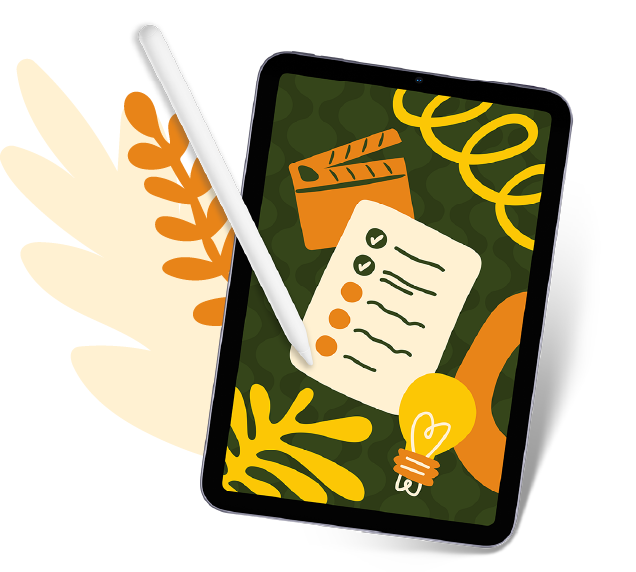
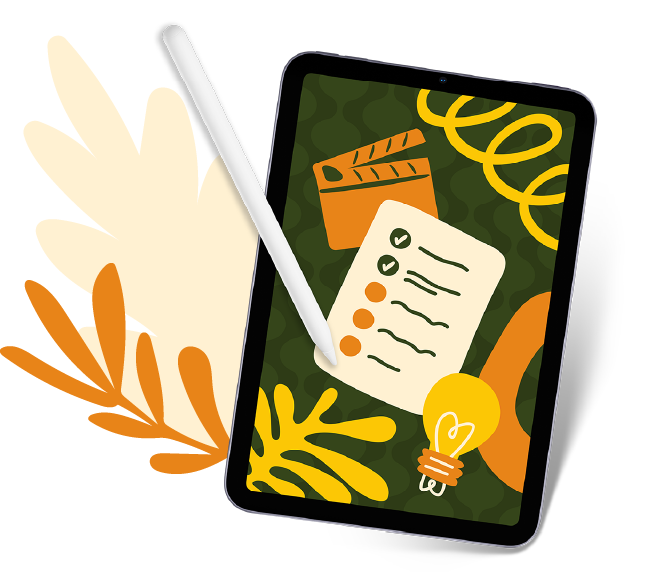
feat: update footer and home page styles

diff --git a/src/pages/Services.tsx b/src/pages/Services.tsx
@@ -14,6 +14,16 @@ import { Button } from "../components/Button";
 import { Container } from "../components/Container";
 
 export default function Services() {
+	const bgStyle = (image: string) => ({
+		backgroundImage: `url(${image})`,
+		backgroundRepeat: "no-repeat",
+		backgroundSize: "cover",
+		backgroundPosition: "center",
+	});
+	const cardStyle = {
+		WebkitMask: `url("${card2}") center / 100% 100% no-repeat`,
+		mask: `url("${card2}") center / 100% 100% no-repeat`,
+	};
 	return (
 		<main>
 			<AnimatedSection className="bg-green">
@@ -24,7 +34,7 @@ export default function Services() {
 							NOSSOS <strong>SERVIÇOS</strong>
 						</h1>
 					</div>
-					<div className="flex flex-col max-w-78 sm:max-w-md">
+					<div className="flex flex-col max-w-70 sm:max-w-md">
 						<p className="text-cream text-center sm:text-left">
 							Atuamos em diferentes momentos da produção, adaptando estratégia,
 							escopo e entregas conforme as necessidades de cada projeto.
@@ -32,17 +42,9 @@ export default function Services() {
 					</div>
 				</Container>
 			</AnimatedSection>
-			<AnimatedSection
-				className="bg-orange"
-				style={{
-					backgroundImage: `url(${bg4})`,
-					backgroundRepeat: "no-repeat",
-					backgroundSize: "cover",
-					backgroundPosition: "center",
-				}}
-			>
+			<AnimatedSection className="bg-orange" style={bgStyle(bg4)}>
 				<Container className="flex flex-col sm:flex-row justify-between py-16">
-					<div className="flex flex-col gap-6 justify-center text-cream max-w-lg">
+					<div className="flex flex-col gap-6 justify-center text-cream max-w-lg order-2 sm:order-1">
 						<h2 className="font-bold">ESTRATÉGIA & POSICIONAMENTO</h2>
 						<p>
 							Definimos o posicionamento do seu projeto a partir de sua
@@ -51,10 +53,7 @@ export default function Services() {
 						<AnimatedItems>
 							<ul
 								className="space-y-2 p-10 bg-cream text-green font-medium"
-								style={{
-									WebkitMask: `url("${card2}") center / 100% 100% no-repeat`,
-									mask: `url("${card2}") center / 100% 100% no-repeat`,
-								}}
+								style={cardStyle}
 							>
 								<li> ✽ Diagnóstico de perfil da obra e público-alvo</li>
 								<li> ✽ Definição de posicionamento e marca</li>
@@ -66,19 +65,11 @@ export default function Services() {
 					<img
 						src={notebook}
 						alt="Notebook com apresentação da Butiá"
-						className="h-auto w-xl mt-10 sm:mt-0"
+						className="h-auto w-xl mb-10 sm:mb-0 order-1 sm:order-2"
 					/>
 				</Container>
 			</AnimatedSection>
-			<AnimatedSection
-				className="bg-green"
-				style={{
-					backgroundImage: `url(${bg2})`,
-					backgroundRepeat: "no-repeat",
-					backgroundSize: "cover",
-					backgroundPosition: "center",
-				}}
-			>
+			<AnimatedSection className="bg-green" style={bgStyle(bg2)}>
 				<Container className="flex flex-col sm:flex-row justify-between py-16">
 					<img
 						src={cartaz}
@@ -94,10 +85,7 @@ export default function Services() {
 						<AnimatedItems>
 							<ul
 								className="space-y-2 p-10 bg-cream text-green font-medium"
-								style={{
-									WebkitMask: `url("${card2}") center / 100% 100% no-repeat`,
-									mask: `url("${card2}") center / 100% 100% no-repeat`,
-								}}
+								style={cardStyle}
 							>
 								<li>
 									✽ Desenvolvimento de cartazes, pôsteres, identidade visual e
@@ -114,17 +102,9 @@ export default function Services() {
 					</div>
 				</Container>
 			</AnimatedSection>
-			<AnimatedSection
-				className="bg-yellow"
-				style={{
-					backgroundImage: `url(${bg3})`,
-					backgroundRepeat: "no-repeat",
-					backgroundSize: "cover",
-					backgroundPosition: "center",
-				}}
-			>
+			<AnimatedSection className="bg-yellow" style={bgStyle(bg3)}>
 				<Container className="flex flex-col sm:flex-row justify-between py-16">
-					<div className="flex flex-col gap-6 justify-center text-green max-w-lg">
+					<div className="flex flex-col gap-6 justify-center text-green max-w-lg order-2 sm:order-1">
 						<h2 className="font-bold">IMPRENSA</h2>
 						<p>
 							Ampliamos a presença da sua obra articulando imprensa, crítica e
@@ -133,10 +113,7 @@ export default function Services() {
 						<AnimatedItems>
 							<ul
 								className="space-y-2 p-10 bg-cream text-green font-medium"
-								style={{
-									WebkitMask: `url("${card2}") center / 100% 100% no-repeat`,
-									mask: `url("${card2}") center / 100% 100% no-repeat`,
-								}}
+								style={cardStyle}
 							>
 								<li> ✽ Redação de releases e notas oficiais</li>
 								<li> ✽ Construção e gestão de mailing segmentado</li>
@@ -147,19 +124,11 @@ export default function Services() {
 					<img
 						src={news}
 						alt="Celular com texto da release de imprensa"
-						className="h-auto w-xl mt-10 sm:mt-0"
+						className="h-auto w-xl mb-10 sm:mb-0 order-1 sm:order-2"
 					/>
 				</Container>
 			</AnimatedSection>
-			<AnimatedSection
-				className="bg-red"
-				style={{
-					backgroundImage: `url(${bg5})`,
-					backgroundRepeat: "no-repeat",
-					backgroundSize: "cover",
-					backgroundPosition: "center",
-				}}
-			>
+			<AnimatedSection className="bg-red" style={bgStyle(bg5)}>
 				<Container className="flex flex-col sm:flex-row justify-between py-16">
 					<img src={ipad} alt="Logo" className="h-auto w-lg mb-10 sm:mb-0" />
 					<div className="flex flex-col gap-6 justify-center text-cream max-w-xl">
@@ -171,10 +140,7 @@ export default function Services() {
 						<AnimatedItems>
 							<ul
 								className="space-y-2 p-10 bg-cream text-green font-medium"
-								style={{
-									WebkitMask: `url("${card2}") center / 100% 100% no-repeat`,
-									mask: `url("${card2}") center / 100% 100% no-repeat`,
-								}}
+								style={cardStyle}
 							>
 								<li>✽ Planejamento de conteúdo multiplataforma</li>
 								<li>✽ Criação de linha editorial e cronograma</li>

diff --git a/src/pages/Home.tsx b/src/pages/Home.tsx
@@ -1,8 +1,7 @@
 import { useEffect } from "react";
-import { BsFillMegaphoneFill } from "react-icons/bs";
 import { FaInstagram, FaLinkedinIn } from "react-icons/fa";
 import { LuMail } from "react-icons/lu";
-import { PiFilmSlateFill, PiVideoFill } from "react-icons/pi";
+import { PiFilmReelFill, PiFilmSlateFill, PiVideoFill } from "react-icons/pi";
 import { RiDraftFill } from "react-icons/ri";
 import { useLocation } from "react-router-dom";
 import bg1 from "../assets/illustrations/bg-01.svg";
@@ -61,11 +60,11 @@ export default function Home() {
 				/>
 			</AnimatedSection>
 			<AnimatedSection className="bg-cream">
-				<Container className="flex flex-col sm:flex-row justify-between items-center gap-10 sm:gap-24 sm:py-20 py-12">
-					<div className="flex flex-row shrink-0 gap-8 items-center">
-						<img src={shape1} alt="Logo" className="h-78 sm:h-96 w-auto" />
+				<Container className="flex flex-col sm:flex-row justify-between items-center gap-6 sm:gap-24 sm:py-20 py-12">
+					<div className="flex sm:flex-row flex-col shrink-0 gap-8 items-center">
+						<img src={shape1} alt="Logo" className="h-112 sm:h-96 w-auto" />
 
-						<h2 className="[writing-mode:vertical-rl] rotate-180  whitespace-nowrap">
+						<h2 className="[writing-mode:vertical-rl] -rotate-90 sm:rotate-180 sm:mx-0 -mx-20 whitespace-nowrap">
 							QUEM <strong>SOMOS</strong>
 						</h2>
 					</div>
@@ -89,7 +88,7 @@ export default function Home() {
 							conectada tanto ao público de cinema quanto a novos espectadores
 							nas redes sociais e plataformas digitais.
 						</p>
-						<p className="text-xl sm:text-2xl font-extrabold italic">
+						<p className="text-xl sm:text-xl font-extrabold italic mt-8">
 							Mais do que promover lançamentos, criamos narrativas, imagens e
 							experiências que conectam público e obra, ampliando seu universo
 							para além da tela.
@@ -126,7 +125,7 @@ export default function Home() {
 					<Card icon={PiVideoFill} title="PÓS-PRODUÇÃO">
 						Trailers, teasers, cartazes, press kit e plano de lançamento
 					</Card>
-					<Card icon={BsFillMegaphoneFill} title="DISTRIBUIÇÃO">
+					<Card icon={PiFilmReelFill} title="DISTRIBUIÇÃO">
 						Campanha digital, imprensa, redes sociais <br /> e monitoramento
 					</Card>
 				</Container>
@@ -134,15 +133,15 @@ export default function Home() {
 					Conheça nossos serviços
 				</Button>
 			</AnimatedSection>
-			<AnimatedSection className="relative sm:py-20 py-12 bg-linear-to-b sm:bg-linear-to-r from-yellow from-45% to-cream to-45%">
+			<AnimatedSection className="relative sm:py-20 py-12 bg-linear-to-b sm:bg-linear-to-r from-yellow from-48% to-cream to-45%">
 				<img
 					src={shape2}
 					alt="Ilustração vetorial laranja"
-					className="h-72 sm:h-112 w-auto absolute"
+					className="h-122 sm:h-112 w-auto absolute rotate-90 sm:rotate-0 top-0 -mt-18 sm:mt-0 sm:top-auto"
 				/>
-				<Container className="flex flex-col sm:flex-row justify-between gap-24 sm:gap-12">
+				<Container className="flex flex-col sm:flex-row justify-between gap-20 sm:gap-12">
 					<Carousel />
-					<div className="flex flex-col gap-6 justify-center sm:w-122">
+					<div className="flex flex-col gap-6 justify-center sm:w-122 mt-10 sm:mt-0">
 						<h2 className="text-orange">
 							COMO <strong>TRABALHAMOS</strong>
 						</h2>
@@ -185,9 +184,9 @@ export default function Home() {
 							com uma assessoria focada em comunicação para cinema?
 						</p>
 						<p>
-							Preencha o formulário ao lado para entrar em contato e contar um
-							pouco mais sobre o seu projeto! Acompanhe também nosso trabalho
-							pelas redes sociais.
+							Preencha o formulário para entrar em contato e contar um pouco
+							mais sobre o seu projeto! Acompanhe também nosso trabalho pelas
+							redes sociais.
 						</p>
 						<a
 							className="flex flex-row items-center gap-4 mt-4 w-fit"

diff --git a/src/components/Footer.tsx b/src/components/Footer.tsx
@@ -6,8 +6,8 @@ import { Container } from "./Container";
 export function Footer() {
 	return (
 		<Container>
-			<footer className="bg-cream flex flex-col sm:flex-row justify-between items-center py-4">
-				<img src={logoHorizontal} alt="Logo" className="h-14" />
+			<footer className="bg-cream flex flex-col sm:flex-row justify-between items-center sm:py-4 py-8">
+				<img src={logoHorizontal} alt="Logo" className="sm:h-14 h-12" />
 				<div className="flex flex-row gap-4 sm:py-0 py-4 items-center">
 					<p className="text-sm mr-4">Entre em contato:</p>
 					<a href={"https://www.instagram.com/butiacinema/"} target="blank">
